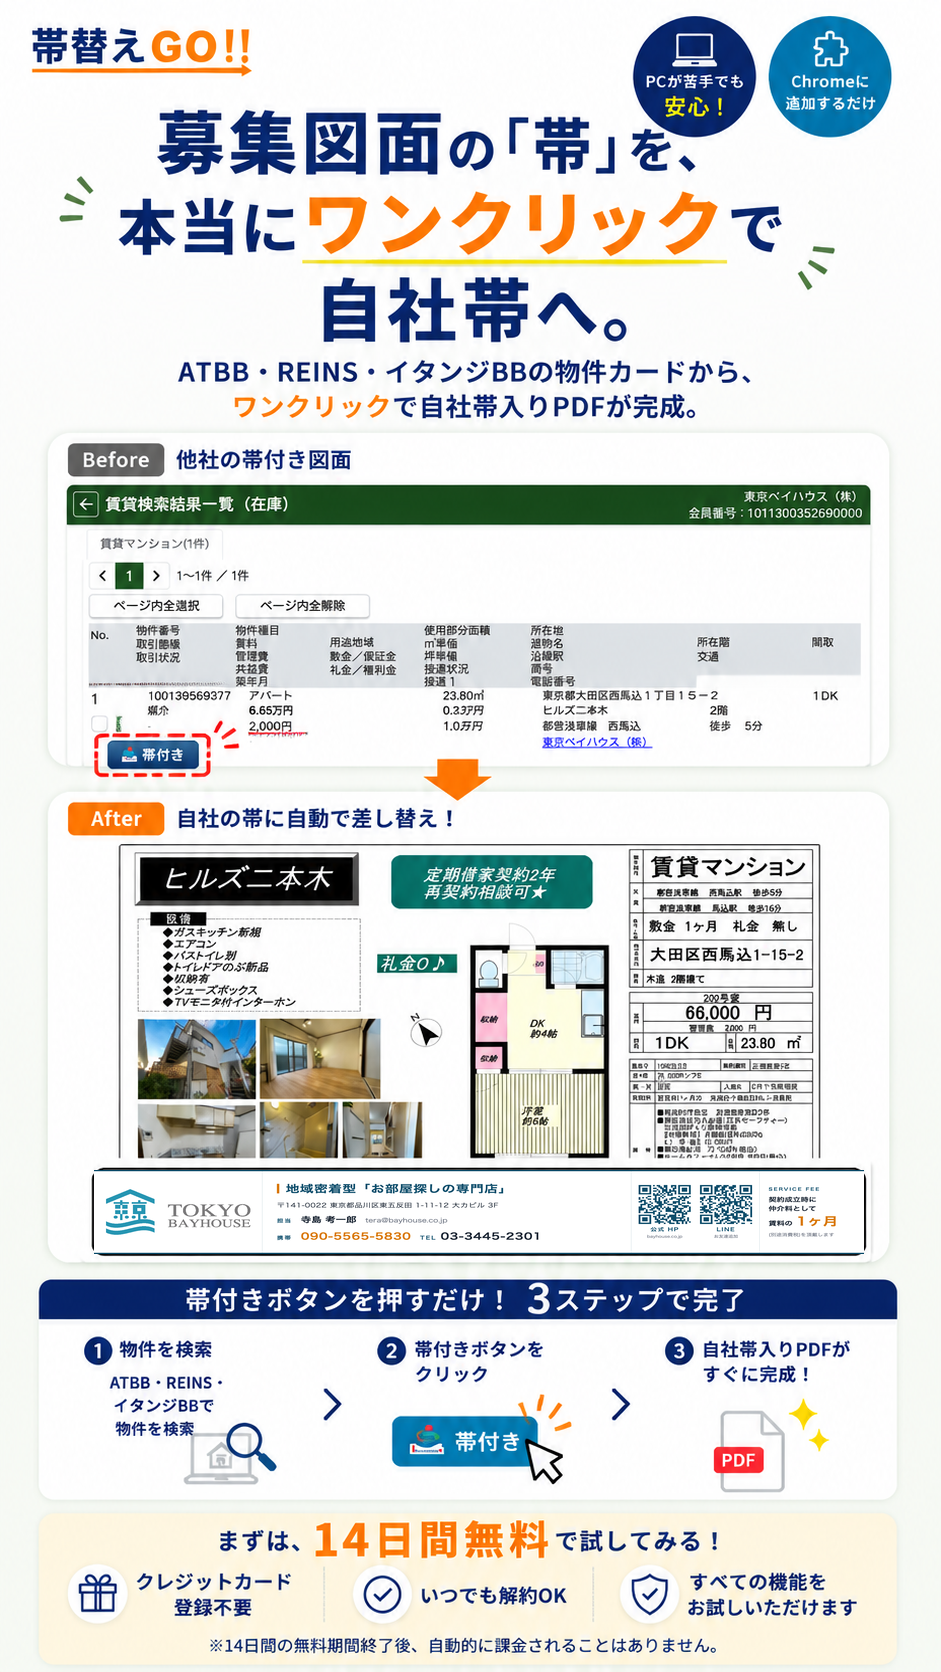
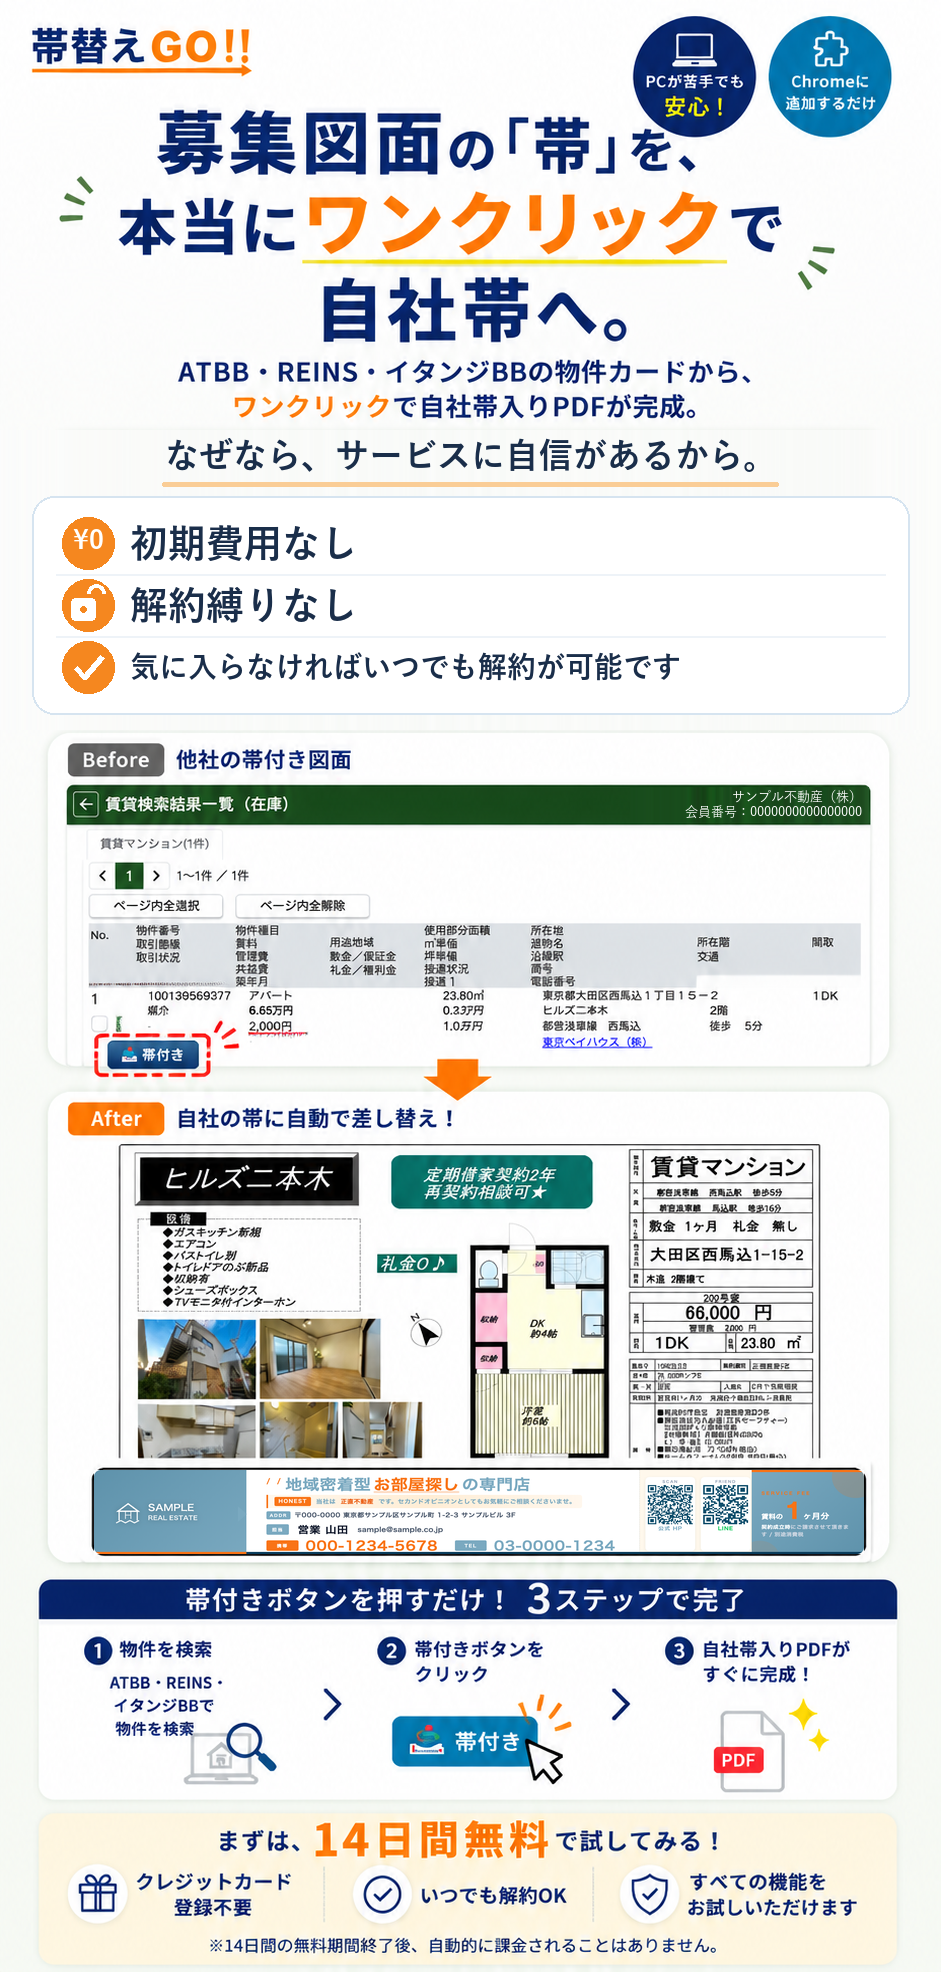
lp: add trust badges to mobile hero and replace real company data with sample band
Mobile hero was missing the three trust badges required by the design brief,
and both heroes exposed a real mobile number and REINS member number.

diff --git a/index.html b/index.html
@@ -1626,8 +1626,8 @@
       <div class="container">
         <div class="hero-image-wrap">
           <picture>
-            <source media="(max-width: 760px)" srcset="/illust/hero-v2-mobile.png?v=2">
-            <img src="/illust/hero-v2-pc.png?v=3"
+            <source media="(max-width: 760px)" srcset="/illust/hero-v2-mobile.png?v=3">
+            <img src="/illust/hero-v2-pc.png?v=4"
                  alt="帯替えGO‼ - 募集図面の「帯」を、ワンクリックで自社帯へ。初期費用なし・解約縛りなし・14日間無料でお試し"
                  loading="eager" fetchpriority="high">
           </picture>
